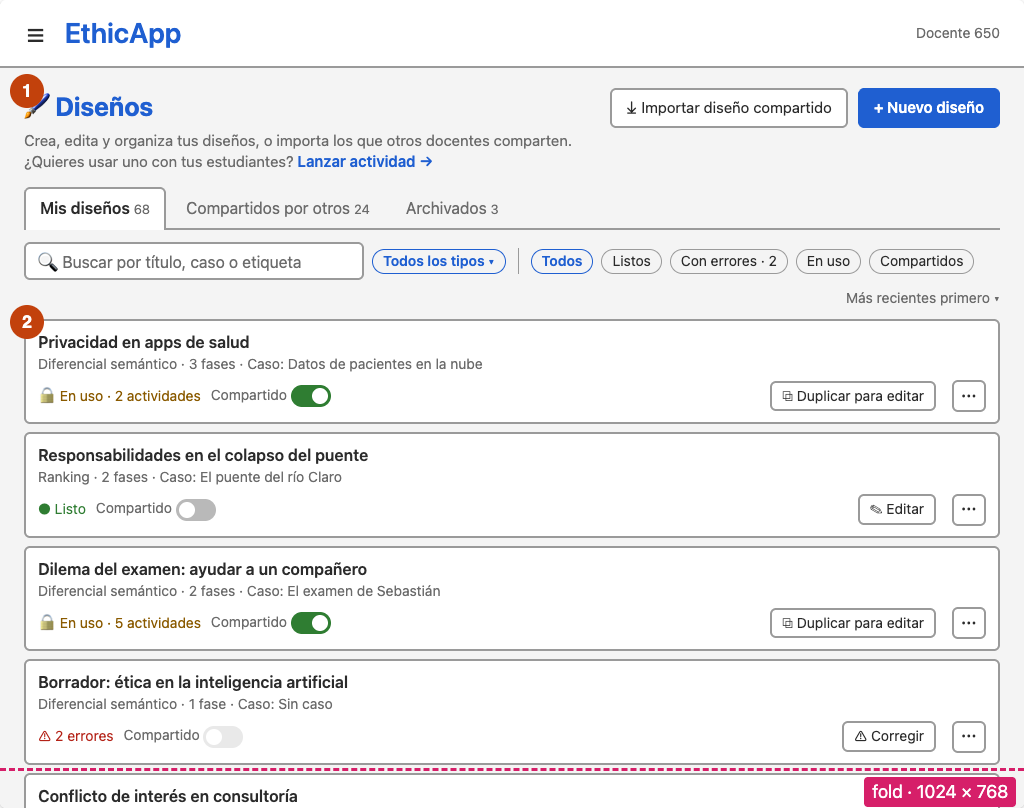
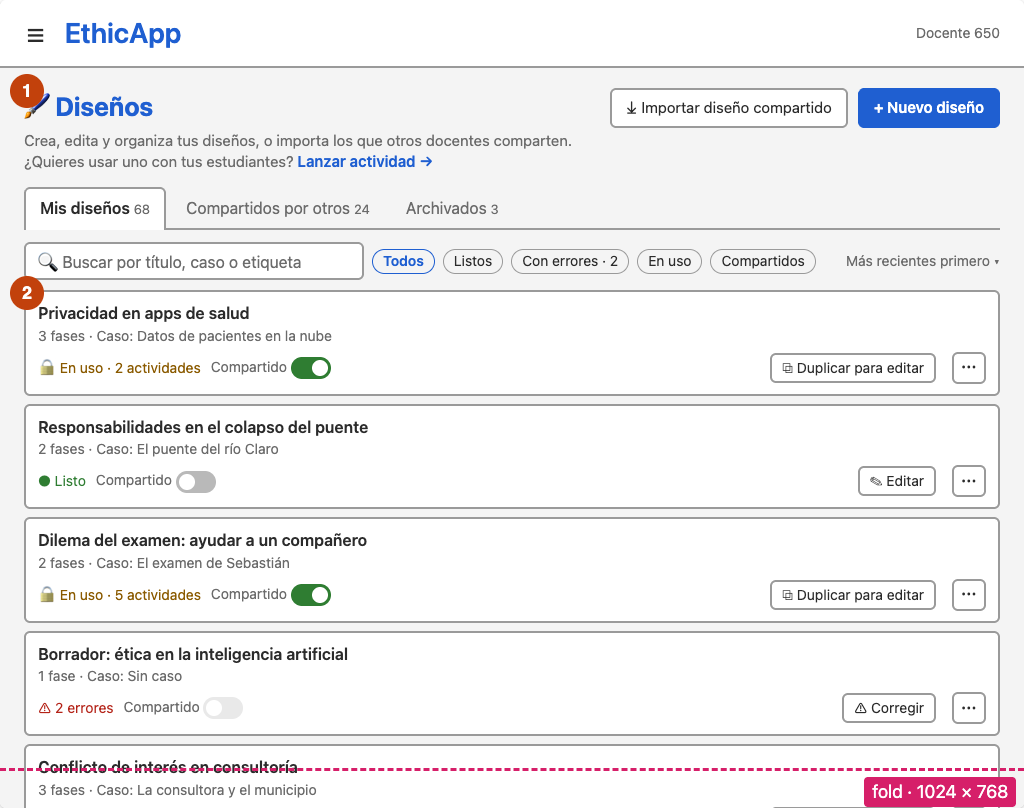
Drop the design type from the designs and launch proposals
A new canonical design schema will let one design mix item types, and
ranking will not be finished on the current schema, so the lists show no
type and have no type filter.

Changed region(s): [[0.0, 0.3403, 0.9688, 1.0], [0.4062, 0.3094, 0.9688, 0.4022], [0.75, 0.9901, 0.9062, 1.0]]

diff --git a/docs/design/designs-index/wireframes.html b/docs/design/designs-index/wireframes.html
@@ -183,7 +183,7 @@
     <li><b>The page says what it is for.</b> "Crea, edita y organiza tus diseños, o importa los que otros docentes comparten." and, next to it, the way out for the other task: "¿Quieres usar uno con tus estudiantes? Lanzar actividad →".</li>
     <li><b>Page actions:</b> "+ Nuevo diseño" (primary) and "Importar diseño compartido", which opens the "Compartidos por otros" tab.</li>
     <li><b>Tabs with counts:</b> "Mis diseños", "Compartidos por otros", "Archivados" (today "Tuyos", "De otros", "Archivadas"). The tab is part of the URL, so links can open one directly.</li>
-    <li><b>Filters for management, not for launching:</b> search over title, case and tags; type; status ("Listos", "Con errores", "En uso", "Compartidos"). The order is stated: "Más recientes primero".</li>
+    <li><b>Filters for management, not for launching:</b> search over title, case and tags; status ("Listos", "Con errores", "En uso", "Compartidos"). The order is stated: "Más recientes primero".</li>
     <li><b>One table row per design</b>, 12 on the first screen against one card today:
       <ul>
         <li><b>Diseño:</b> title, with the case and the number of phases under it. A click on the title opens the design's view, not the editor.</li>
@@ -200,7 +200,7 @@
   <ol class="notes">
     <li><b>The "Con errores" filter is on.</b> This is where the wizard's "3 diseños con errores no aparecen · Revisar en Diseños" lands (<code>#!/designs?status=errors</code>).</li>
     <li>Each row says how many errors it has and offers "Corregir", which opens the editor on the first error.</li>
-    <li>At this width the type moves under the title; the columns are Diseño, Estado, Compartido and the actions.</li>
+    <li>The columns are Diseño, Estado, Compartido and the actions, at this width as at 1920 px. Designs have no type column (see the README's decisions).</li>
   </ol>
 
   <h2>C. 1366 × 768: designs shared by others, after an import</h2>
@@ -208,7 +208,7 @@
   <div id="C"></div>
   <ol class="notes">
     <li><b>What the tab holds, in one line:</b> designs other teachers shared; importing one creates a private, editable copy in Mis diseños, and the original does not change.</li>
-    <li><b>Rows show what matters to decide an import:</b> author, case, license and type. The case is public, since a shared design needs a public case.</li>
+    <li><b>Rows show what matters to decide an import:</b> author, case and license. The case is public, since a shared design needs a public case.</li>
     <li><b>"Importar" is the row's only action.</b> A design already imported shows "Importado · Ver copia" instead, so it is not imported twice by mistake.</li>
     <li><b>A design that can no longer be imported</b> because its case stopped being public says so, with the button disabled.</li>
     <li><b>After importing,</b> a notice names the new copy and offers "Editar copia" and "Ver en Mis diseños". Today the notice says only "Diseño importado en tu colección" and stays for 100 seconds.</li>
@@ -233,42 +233,42 @@
 
 <script>
   const MINE = [
-    { t: "Privacidad en apps de salud", cs: "Datos de pacientes en la nube", type: "Diferencial semántico", ph: 3, st: "use", uses: 2, shared: true },
-    { t: "Responsabilidades en el colapso del puente", cs: "El puente del río Claro", type: "Ranking", ph: 2, st: "ok", shared: false },
-    { t: "Dilema del examen: ayudar a un compañero", cs: "El examen de Sebastián", type: "Diferencial semántico", ph: 2, st: "use", uses: 5, shared: true },
-    { t: "Borrador: ética en la inteligencia artificial", cs: "Sin caso", type: "Diferencial semántico", ph: 1, st: "err", errs: 2, shared: false },
-    { t: "Conflicto de interés en consultoría", cs: "La consultora y el municipio", type: "Diferencial semántico", ph: 3, st: "use", uses: 1, shared: false },
-    { t: "Seguridad frente a plazos en obra", cs: "Andamios en la torre B", type: "Diferencial semántico", ph: 2, st: "use", uses: 3, shared: false },
-    { t: "Denunciar una falla de software", cs: "El bug del sistema de frenos", type: "Diferencial semántico", ph: 2, st: "use", uses: 4, shared: true },
-    { t: "Accesibilidad en el diseño de software", cs: "El portal de trámites", type: "Diferencial semántico", ph: 2, st: "ok", shared: false },
-    { t: "Ranking de prioridades en emergencias", cs: "Sin caso", type: "Ranking", ph: 2, st: "err", errs: 1, shared: false },
-    { t: "IA generativa en la evaluación", cs: "El ensayo de Camila", type: "Diferencial semántico", ph: 3, st: "use", uses: 2, shared: false },
-    { t: "Datos abiertos municipales", cs: "Mapa de la delincuencia", type: "Ranking", ph: 2, st: "use", uses: 1, shared: false },
-    { t: "Propiedad intelectual en la tesis", cs: "El código del laboratorio", type: "Diferencial semántico", ph: 2, st: "use", uses: 2, shared: false },
-    { t: "Impacto ambiental de la planta", cs: "La planta de celulosa", type: "Ranking", ph: 3, st: "use", uses: 1, shared: true },
-    { t: "Sesgo en el algoritmo de admisión", cs: "Admisión automatizada", type: "Diferencial semántico", ph: 2, st: "use", uses: 3, shared: false },
-    { t: "Regalos de proveedores", cs: "La cena de fin de año", type: "Diferencial semántico", ph: 2, st: "use", uses: 6, shared: false },
-    { t: "Pruebas con animales", cs: "El laboratorio de toxicología", type: "Ranking", ph: 2, st: "use", uses: 1, shared: false },
-    { t: "Plagio en el informe final", cs: "Dos informes muy parecidos", type: "Diferencial semántico", ph: 2, st: "use", uses: 2, shared: false },
-    { t: "Ética del trabajo remoto", cs: "Monitoreo de pantallas", type: "Diferencial semántico", ph: 2, st: "ok", shared: false },
-    { t: "Huella de carbono del data center", cs: "El centro de datos del norte", type: "Ranking", ph: 2, st: "use", uses: 1, shared: false },
-    { t: "Consentimiento en estudios con usuarios", cs: "La encuesta de la app", type: "Diferencial semántico", ph: 3, st: "ok", shared: false },
-    { t: "Proveedores y trabajo infantil", cs: "La cadena de suministro", type: "Ranking", ph: 2, st: "use", uses: 2, shared: false },
-    { t: "Responsabilidad en accidentes de vehículos autónomos", cs: "El cruce de la avenida", type: "Diferencial semántico", ph: 3, st: "use", uses: 1, shared: false },
-    { t: "Transparencia en reportes financieros", cs: "El balance del trimestre", type: "Diferencial semántico", ph: 2, st: "ok", shared: false },
-    { t: "Conflictos en el equipo de proyecto", cs: "La entrega atrasada", type: "Diferencial semántico", ph: 2, st: "use", uses: 3, shared: false },
+    { t: "Privacidad en apps de salud", cs: "Datos de pacientes en la nube", ph: 3, st: "use", uses: 2, shared: true },
+    { t: "Responsabilidades en el colapso del puente", cs: "El puente del río Claro", ph: 2, st: "ok", shared: false },
+    { t: "Dilema del examen: ayudar a un compañero", cs: "El examen de Sebastián", ph: 2, st: "use", uses: 5, shared: true },
+    { t: "Borrador: ética en la inteligencia artificial", cs: "Sin caso", ph: 1, st: "err", errs: 2, shared: false },
+    { t: "Conflicto de interés en consultoría", cs: "La consultora y el municipio", ph: 3, st: "use", uses: 1, shared: false },
+    { t: "Seguridad frente a plazos en obra", cs: "Andamios en la torre B", ph: 2, st: "use", uses: 3, shared: false },
+    { t: "Denunciar una falla de software", cs: "El bug del sistema de frenos", ph: 2, st: "use", uses: 4, shared: true },
+    { t: "Accesibilidad en el diseño de software", cs: "El portal de trámites", ph: 2, st: "ok", shared: false },
+    { t: "Prioridades en emergencias", cs: "Sin caso", ph: 2, st: "err", errs: 1, shared: false },
+    { t: "IA generativa en la evaluación", cs: "El ensayo de Camila", ph: 3, st: "use", uses: 2, shared: false },
+    { t: "Datos abiertos municipales", cs: "Mapa de la delincuencia", ph: 2, st: "use", uses: 1, shared: false },
+    { t: "Propiedad intelectual en la tesis", cs: "El código del laboratorio", ph: 2, st: "use", uses: 2, shared: false },
+    { t: "Impacto ambiental de la planta", cs: "La planta de celulosa", ph: 3, st: "use", uses: 1, shared: true },
+    { t: "Sesgo en el algoritmo de admisión", cs: "Admisión automatizada", ph: 2, st: "use", uses: 3, shared: false },
+    { t: "Regalos de proveedores", cs: "La cena de fin de año", ph: 2, st: "use", uses: 6, shared: false },
+    { t: "Pruebas con animales", cs: "El laboratorio de toxicología", ph: 2, st: "use", uses: 1, shared: false },
+    { t: "Plagio en el informe final", cs: "Dos informes muy parecidos", ph: 2, st: "use", uses: 2, shared: false },
+    { t: "Ética del trabajo remoto", cs: "Monitoreo de pantallas", ph: 2, st: "ok", shared: false },
+    { t: "Huella de carbono del data center", cs: "El centro de datos del norte", ph: 2, st: "use", uses: 1, shared: false },
+    { t: "Consentimiento en estudios con usuarios", cs: "La encuesta de la app", ph: 3, st: "ok", shared: false },
+    { t: "Proveedores y trabajo infantil", cs: "La cadena de suministro", ph: 2, st: "use", uses: 2, shared: false },
+    { t: "Responsabilidad en accidentes de vehículos autónomos", cs: "El cruce de la avenida", ph: 3, st: "use", uses: 1, shared: false },
+    { t: "Transparencia en reportes financieros", cs: "El balance del trimestre", ph: 2, st: "ok", shared: false },
+    { t: "Conflictos en el equipo de proyecto", cs: "La entrega atrasada", ph: 2, st: "use", uses: 3, shared: false },
   ];
   const SHARED = [
-    { t: "Dilemas de privacidad en redes sociales", by: "Prof. Andrea Rojas", cs: "La foto viral", lic: "CC BY-SA 4.0", type: "Diferencial semántico", ph: 3, state: "new" },
-    { t: "Ingeniería y comunidades indígenas", by: "Prof. Tomás Pérez", cs: "La represa del valle", lic: "CC BY 4.0", type: "Ranking", ph: 2, state: "imported" },
-    { t: "Algoritmos de contratación", by: "Prof. Lucía Herrera", cs: "El filtro de currículums", lic: "CC BY-SA 4.0", type: "Diferencial semántico", ph: 2, state: "new" },
-    { t: "Seguridad informática y divulgación", by: "Prof. Diego Soto", cs: "La vulnerabilidad del banco", lic: "CC BY-NC 4.0", type: "Diferencial semántico", ph: 3, state: "new" },
-    { t: "Ética en la minería", by: "Prof. Carla Muñoz", cs: "El relave", lic: "CC BY-SA 4.0", type: "Ranking", ph: 2, state: "blocked" },
-    { t: "Deberes del ingeniero en obra pública", by: "Prof. Andrea Rojas", cs: "El paso nivel", lic: "CC BY-SA 4.0", type: "Diferencial semántico", ph: 2, state: "new" },
-    { t: "Telemedicina en zonas rurales", by: "Prof. Iván Castro", cs: "La consulta remota", lic: "CC BY 4.0", type: "Diferencial semántico", ph: 3, state: "new" },
-    { t: "Datos genéticos y seguros", by: "Prof. Lucía Herrera", cs: "El examen de ADN", lic: "CC BY-SA 4.0", type: "Diferencial semántico", ph: 2, state: "new" },
-    { t: "Obsolescencia programada", by: "Prof. Diego Soto", cs: "La impresora", lic: "CC BY-SA 4.0", type: "Ranking", ph: 2, state: "new" },
-    { t: "Drones y vigilancia", by: "Prof. Tomás Pérez", cs: "El barrio vigilado", lic: "CC BY 4.0", type: "Diferencial semántico", ph: 2, state: "new" },
+    { t: "Dilemas de privacidad en redes sociales", by: "Prof. Andrea Rojas", cs: "La foto viral", lic: "CC BY-SA 4.0", ph: 3, state: "new" },
+    { t: "Ingeniería y comunidades indígenas", by: "Prof. Tomás Pérez", cs: "La represa del valle", lic: "CC BY 4.0", ph: 2, state: "imported" },
+    { t: "Algoritmos de contratación", by: "Prof. Lucía Herrera", cs: "El filtro de currículums", lic: "CC BY-SA 4.0", ph: 2, state: "new" },
+    { t: "Seguridad informática y divulgación", by: "Prof. Diego Soto", cs: "La vulnerabilidad del banco", lic: "CC BY-NC 4.0", ph: 3, state: "new" },
+    { t: "Ética en la minería", by: "Prof. Carla Muñoz", cs: "El relave", lic: "CC BY-SA 4.0", ph: 2, state: "blocked" },
+    { t: "Deberes del ingeniero en obra pública", by: "Prof. Andrea Rojas", cs: "El paso nivel", lic: "CC BY-SA 4.0", ph: 2, state: "new" },
+    { t: "Telemedicina en zonas rurales", by: "Prof. Iván Castro", cs: "La consulta remota", lic: "CC BY 4.0", ph: 3, state: "new" },
+    { t: "Datos genéticos y seguros", by: "Prof. Lucía Herrera", cs: "El examen de ADN", lic: "CC BY-SA 4.0", ph: 2, state: "new" },
+    { t: "Obsolescencia programada", by: "Prof. Diego Soto", cs: "La impresora", lic: "CC BY-SA 4.0", ph: 2, state: "new" },
+    { t: "Drones y vigilancia", by: "Prof. Tomás Pérez", cs: "El barrio vigilado", lic: "CC BY 4.0", ph: 2, state: "new" },
   ];
 
   const status = (d) => d.st === "ok" ? '<span class="st ok">● Listo</span>'
@@ -280,20 +280,17 @@
     : '<span class="btn sm">⧉ Duplicar para editar</span>';
 
   function mineTable(rows, { narrow, menuRow }) {
-    const head = narrow
-      ? "<tr><th>Diseño</th><th>Estado</th><th>Compartido</th><th></th></tr>"
-      : "<tr><th>Diseño</th><th>Tipo</th><th>Estado</th><th>Compartido</th><th></th></tr>";
+    const head = "<tr><th>Diseño</th><th>Estado</th><th>Compartido</th><th></th></tr>";
     const body = rows.map((d, i) => {
-      const meta = narrow ? `${d.type} · ${d.ph} ${d.ph === 1 ? "fase" : "fases"} · Caso: ${d.cs}` : `${d.ph} ${d.ph === 1 ? "fase" : "fases"} · Caso: ${d.cs}`;
+      const meta = `${d.ph} ${d.ph === 1 ? "fase" : "fases"} · Caso: ${d.cs}`;
       return `<tr${i === menuRow ? ' class="hl"' : ""}><td class="t"><div class="title">${d.t}</div><div class="meta">${meta}</div></td>`
-        + (narrow ? "" : `<td class="sub">${d.type}</td>`)
         + `<td>${status(d)}</td><td>${share(d)}</td><td class="acts">${mainAction(d)}<span class="kebab"${i === menuRow ? ' data-menu="1"' : ""}>⋯</span></td></tr>`;
     }).join("");
     return `<table class="dt" data-role="designs"><thead>${head}</thead><tbody>${body}</tbody></table>`;
   }
 
   function mineList(rows) {
-    return `<div class="cards" data-role="designs">${rows.map((d) => `<div class="box card"><div class="row1"><span style="min-width:0"><div class="lbl">${d.t}</div><div class="sub">${d.type} · ${d.ph} ${d.ph === 1 ? "fase" : "fases"} · Caso: ${d.cs}</div></span></div>
+    return `<div class="cards" data-role="designs">${rows.map((d) => `<div class="box card"><div class="row1"><span style="min-width:0"><div class="lbl">${d.t}</div><div class="sub">${d.ph} ${d.ph === 1 ? "fase" : "fases"} · Caso: ${d.cs}</div></span></div>
       <div class="row2">${status(d)}<span class="sub">Compartido ${share(d)}</span><span style="flex:1"></span>${mainAction(d)}<span class="kebab">⋯</span></div></div>`).join("")}</div>`;
   }
 
@@ -301,7 +298,7 @@
     const act = (d) => d.state === "imported" ? '<span class="st ok">✓ Importado</span> <span class="btn sm ghost">Ver copia</span>'
       : d.state === "blocked" ? '<span class="btn sm disabled">Importar</span><div class="sub" style="font-size:12px">Su caso dejó de ser público</div>'
       : '<span class="btn sm">⤓ Importar</span>';
-    const body = SHARED.map((d) => `<tr><td class="t"><div class="title">${d.t}</div><div class="meta">${d.type} · ${d.ph} ${d.ph === 1 ? "fase" : "fases"} · Caso: ${d.cs}</div></td>
+    const body = SHARED.map((d) => `<tr><td class="t"><div class="title">${d.t}</div><div class="meta">${d.ph} ${d.ph === 1 ? "fase" : "fases"} · Caso: ${d.cs}</div></td>
       <td class="sub">${d.by}</td><td class="sub">${d.lic}</td><td class="acts" style="text-align:right">${act(d)}</td></tr>`).join("");
     return `<table class="dt" data-role="designs"><thead><tr><th>Diseño</th><th>Autor</th><th>Licencia</th><th></th></tr></thead><tbody>${body}</tbody></table>`;
   }
@@ -316,12 +313,11 @@
     if (tab === "shared") {
       return head + tabs
         + '<div class="banner lib">Diseños que otros docentes compartieron. Al importar uno se crea una <b>copia privada y editable</b> en Mis diseños; el original no cambia.</div>'
-        + '<div class="tools"><span class="search">🔍 Buscar por título, autor, caso o etiqueta</span><span class="chip on">Todos</span><span class="chip">Diferencial semántico</span><span class="chip">Ranking</span><span class="sub sort">Más recientes primero ▾</span></div>'
+        + '<div class="tools"><span class="search">🔍 Buscar por título, autor, caso o etiqueta</span><span class="sub sort">Más recientes primero ▾</span></div>'
         + sharedTable();
     }
     const st = (k, label) => `<span class="chip${filter === k ? " on" : ""}" data-k="${k}">${label}</span>`;
     const tools = `<div class="tools"><span class="search">🔍 Buscar por título, caso o etiqueta</span>
-      <span class="chip on">Todos los tipos ▾</span><span class="sep"></span>
       ${st("all", "Todos")}${st("ok", "Listos")}${st("errors", "Con errores · 2")}${st("use", "En uso")}${st("shared", "Compartidos")}
       <span class="sub sort">Más recientes primero ▾</span></div>`;
     const list = filter === "errors" ? MINE.filter((d) => d.st === "err") : MINE.slice(0, rows);

diff --git a/docs/design/launch-activity-wizard/wireframes.html b/docs/design/launch-activity-wizard/wireframes.html
@@ -201,14 +201,14 @@
   <div id="A"></div>
   <ol class="notes">
     <li><b>Stepper.</b> Two steps, always visible: "Elegir diseño" and "Identificar y lanzar". The current step is marked, and a completed step shows a check and can be clicked to go back. It is a <code>nav</code> with <code>aria-current="step"</code>.</li>
-    <li><b>Find a design.</b> The search filters as the teacher types, over title, case and tags, with no typeahead popup. The type chips narrow the list.
+    <li><b>Find a design.</b> The search filters as the teacher types, over title, case and tags, with no typeahead popup.
       <ul>
         <li><b>The list says its order</b>: "Por último lanzamiento". The most recently launched designs come first.</li>
         <li><b>A design never launched</b> is placed by its creation date. A design created yesterday sits above one last launched a month ago, so a design just written for this class is at the top.</li>
       </ul></li>
     <li><b>One line per design</b>, instead of a 353 px card.
       <ul>
-        <li>It shows a radio button, the title, the type, the number of phases and the case.</li>
+        <li>It shows a radio button, the title, the number of phases and the case.</li>
         <li><b>"✦ IA"</b> marks a design that uses AI services in any phase. It comes from the design itself, so the list needs no catalog of services.</li>
         <li>On the right, when the design was last launched, or created if it never was.</li>
         <li>The whole row selects; there are no other buttons.</li>
@@ -217,7 +217,7 @@
     <li><b>Designs that cannot be launched are explained, not silently hidden.</b> Designs with errors are not listed, and the footer says how many and links to Diseños. Archived designs are not listed either.</li>
     <li><b>Preview of the selected design</b>, so the teacher can check it without leaving the page.
       <ul>
-        <li>It shows the type, the case, each phase with its mode and questions, and when the design was created and last launched.</li>
+        <li>It shows the case, each phase with its mode and questions, and when the design was created and last launched.</li>
         <li><b>It names the AI service of each phase</b> with the service's own texts, as the design editor and the dashboard do.</li>
         <li>"Ver diseño completo" opens the design in a new tab, so the wizard keeps its state.</li>
       </ul></li>
@@ -228,8 +228,8 @@
   <p class="metrics" data-metrics="B"></p>
   <div id="B"></div>
   <ol class="notes">
-    <li>Same structure, with a 380 px preview. When the type and the phases do not fit on a row's second line, the row drops them; the preview still shows them.</li>
-    <li>6 designs fit on the first screen. Today not one full card does.</li>
+    <li>Same structure, with a 380 px preview. When the phases do not fit on a row's second line, the row drops them; the preview still shows them.</li>
+    <li>7 designs fit on the first screen. Today not one full card does.</li>
   </ol>
 
   <h2>C. 1366 × 768: step 2, identify and launch</h2>
@@ -281,22 +281,22 @@
 
 <script>
   const DESIGNS = [
-    { t: "Privacidad en apps de salud", type: "Diferencial semántico", phases: 3, cs: "Datos de pacientes en la nube", ai: true, when: "Lanzado 2 veces · 28 oct." },
-    { t: "Responsabilidades en el colapso del puente", type: "Ranking", phases: 2, cs: "El puente del río Claro", ai: false, when: "Creado 25 oct. · nunca lanzado" },
-    { t: "Dilema del examen: ayudar a un compañero", type: "Diferencial semántico", phases: 2, cs: "El examen de Sebastián", ai: true, when: "Lanzado 5 veces · 21 oct." },
-    { t: "Conflicto de interés en consultoría", type: "Diferencial semántico", phases: 3, cs: "La consultora y el municipio", ai: true, when: "Lanzado 1 vez · 2 sep." },
-    { t: "Seguridad frente a plazos en obra", type: "Diferencial semántico", phases: 2, cs: "Andamios en la torre B", ai: true, when: "Lanzado 3 veces · 18 ago." },
-    { t: "Denunciar una falla de software", type: "Diferencial semántico", phases: 2, cs: "El bug del sistema de frenos", ai: false, when: "Lanzado 4 veces · 30 jul." },
-    { t: "IA generativa en la evaluación", type: "Diferencial semántico", phases: 3, cs: "El ensayo de Camila", ai: true, when: "Lanzado 2 veces · 9 jul." },
-    { t: "Datos abiertos municipales", type: "Ranking", phases: 2, cs: "Mapa de la delincuencia", ai: false, when: "Lanzado 1 vez · 12 jun." },
-    { t: "Accesibilidad en el diseño de software", type: "Diferencial semántico", phases: 2, cs: "El portal de trámites", ai: true, when: "Creado 3 jun. · nunca lanzado" },
-    { t: "Propiedad intelectual en la tesis", type: "Diferencial semántico", phases: 2, cs: "El código del laboratorio", ai: false, when: "Lanzado 2 veces · 20 may." },
-    { t: "Impacto ambiental de la planta", type: "Ranking", phases: 3, cs: "La planta de celulosa", ai: true, when: "Lanzado 1 vez · 8 may." },
-    { t: "Sesgo en el algoritmo de admisión", type: "Diferencial semántico", phases: 2, cs: "Admisión automatizada", ai: true, when: "Lanzado 3 veces · 14 abr." },
-    { t: "Regalos de proveedores", type: "Diferencial semántico", phases: 2, cs: "La cena de fin de año", ai: false, when: "Lanzado 6 veces · 2 abr." },
-    { t: "Pruebas con animales", type: "Ranking", phases: 2, cs: "El laboratorio de toxicología", ai: false, when: "Lanzado 1 vez · 3 mar." },
-    { t: "Plagio en el informe final", type: "Diferencial semántico", phases: 2, cs: "Dos informes muy parecidos", ai: true, when: "Lanzado 2 veces · 27 feb." },
-    { t: "Ética del trabajo remoto", type: "Diferencial semántico", phases: 2, cs: "Monitoreo de pantallas", ai: false, when: "Creado 1 feb. · nunca lanzado" },
+    { t: "Privacidad en apps de salud", phases: 3, cs: "Datos de pacientes en la nube", ai: true, when: "Lanzado 2 veces · 28 oct." },
+    { t: "Responsabilidades en el colapso del puente", phases: 2, cs: "El puente del río Claro", ai: false, when: "Creado 25 oct. · nunca lanzado" },
+    { t: "Dilema del examen: ayudar a un compañero", phases: 2, cs: "El examen de Sebastián", ai: true, when: "Lanzado 5 veces · 21 oct." },
+    { t: "Conflicto de interés en consultoría", phases: 3, cs: "La consultora y el municipio", ai: true, when: "Lanzado 1 vez · 2 sep." },
+    { t: "Seguridad frente a plazos en obra", phases: 2, cs: "Andamios en la torre B", ai: true, when: "Lanzado 3 veces · 18 ago." },
+    { t: "Denunciar una falla de software", phases: 2, cs: "El bug del sistema de frenos", ai: false, when: "Lanzado 4 veces · 30 jul." },
+    { t: "IA generativa en la evaluación", phases: 3, cs: "El ensayo de Camila", ai: true, when: "Lanzado 2 veces · 9 jul." },
+    { t: "Datos abiertos municipales", phases: 2, cs: "Mapa de la delincuencia", ai: false, when: "Lanzado 1 vez · 12 jun." },
+    { t: "Accesibilidad en el diseño de software", phases: 2, cs: "El portal de trámites", ai: true, when: "Creado 3 jun. · nunca lanzado" },
+    { t: "Propiedad intelectual en la tesis", phases: 2, cs: "El código del laboratorio", ai: false, when: "Lanzado 2 veces · 20 may." },
+    { t: "Impacto ambiental de la planta", phases: 3, cs: "La planta de celulosa", ai: true, when: "Lanzado 1 vez · 8 may." },
+    { t: "Sesgo en el algoritmo de admisión", phases: 2, cs: "Admisión automatizada", ai: true, when: "Lanzado 3 veces · 14 abr." },
+    { t: "Regalos de proveedores", phases: 2, cs: "La cena de fin de año", ai: false, when: "Lanzado 6 veces · 2 abr." },
+    { t: "Pruebas con animales", phases: 2, cs: "El laboratorio de toxicología", ai: false, when: "Lanzado 1 vez · 3 mar." },
+    { t: "Plagio en el informe final", phases: 2, cs: "Dos informes muy parecidos", ai: true, when: "Lanzado 2 veces · 27 feb." },
+    { t: "Ética del trabajo remoto", phases: 2, cs: "Monitoreo de pantallas", ai: false, when: "Creado 1 feb. · nunca lanzado" },
   ];
   const SELECTED = 0;
   const DESCRIPTION = "Ética Profesional · Sección 3 · 2026-2";
@@ -321,7 +321,7 @@
 
   function row(d, i, { narrow, inline }) {
     const sel = i === SELECTED;
-    const meta = narrow ? `Caso: ${d.cs}` : `${d.type} · ${d.phases} fases · Caso: ${d.cs}`;
+    const meta = narrow ? `Caso: ${d.cs}` : `${d.phases} fases · Caso: ${d.cs}`;
     const ai = d.ai ? '<span class="chip ai">✦ IA</span>' : "";
     const extra = sel && inline
       ? `<div class="inline">${phaseRows()}
@@ -340,14 +340,13 @@
         <div class="listfoot"><span>Mostrando ${rows} de 24 · <span style="color:var(--accent)">Mostrar más</span></span><span>3 diseños con errores no aparecen · <span style="color:var(--accent)">Revisar en Diseños</span></span></div>
       </div>`;
     const tools = `<div class="tools"><span class="search">🔍 Buscar por título, caso o etiqueta</span>
-        <span class="chip on">Todos</span><span class="chip">Diferencial semántico</span><span class="chip">Ranking</span>
         <span class="sub sort">Por último lanzamiento · 24 diseños</span></div>`;
     if (one) return tools + list;
     const d = DESIGNS[SELECTED];
     const preview = `<div class="box preview">
         <div class="sub">Vista previa</div>
         <h4>${d.t}</h4>
-        <div class="kv"><span class="chip">${d.type}</span><span class="chip">${d.phases} fases</span><span class="chip ai">✦ IA</span></div>
+        <div class="kv"><span class="chip">${d.phases} fases</span><span class="chip ai">✦ IA</span></div>
         <div class="case"><span>📖 Caso: <b>${d.cs}</b></span><span style="color:var(--accent)">Ver caso ↗</span></div>
         ${phaseRows()}
         <div class="sub" style="margin:10px 0 12px">Creado el 12 sep. · ${d.when}</div>
@@ -378,7 +377,7 @@
     const one = layout === "one";
     const d = DESIGNS[SELECTED];
     const chosen = `<div class="box card chosen"><span style="min-width:0"><div class="sub">Diseño elegido</div>
-        <div class="lbl" style="font-size:17px">${d.t}</div><div class="sub">${d.type} · ${d.phases} fases · Caso: ${d.cs}</div></span>
+        <div class="lbl" style="font-size:17px">${d.t}</div><div class="sub">${d.phases} fases · Caso: ${d.cs}</div></span>
         <span class="btn link">← Cambiar diseño</span></div>`;
     const desc = `<div class="box card desc">
         <div class="field-label">Descripción de la actividad <span class="req">*</span></div>

diff --git a/docs/design/launch-activity-wizard/README.md b/docs/design/launch-activity-wizard/README.md
@@ -66,7 +66,6 @@ The page was measured with headless Chrome. The numbers are the same at 1920, 13
 
 **Finding a design**
 - The search filters the list as the teacher types, over title, case and tags. It has no typeahead popup.
-- Type chips (Todos, Diferencial semántico, Ranking) narrow the list.
 
 **Order**
 - The list is ordered by last launch, most recent first, and says so: "Por último lanzamiento · 24 diseños".
@@ -74,12 +73,12 @@ The page was measured with headless Chrome. The numbers are the same at 1920, 13
 
 **One row per design**
 - Each row shows:
-  - a radio button, the title, and the type, number of phases and case;
+  - a radio button, the title, and the number of phases and case;
   - "✦ IA" when any of the design's phases enables an AI service;
   - when it was last launched ("Lanzado 2 veces · 28 oct.") or, if never, created ("Creado 25 oct. · nunca lanzado").
 - The whole row selects the design, and it has no other buttons. Double-clicking a row moves on to step 2.
 - The list shows the first 20 rows, then "Mostrar más". There are no pages.
-- 11 rows fit on the first screen at 1920 × 1080, 6 at 1366 × 768, and 3 at 1024 × 768 with the selected row expanded.
+- 11 rows fit on the first screen at 1920 × 1080, 7 at 1366 × 768, and 3 at 1024 × 768 with the selected row expanded.
 
 **Designs that cannot be launched**
 - Designs with errors and archived designs are not listed.
@@ -88,7 +87,7 @@ The page was measured with headless Chrome. The numbers are the same at 1920, 13
 **Preview of the selected design**
 - From 1200 px, the preview is a 460 px panel (380 px at 1366) next to the list. Below 1200 px, the selected row expands in place.
 - It shows:
-  - the type and number of phases;
+  - the number of phases;
   - the case, with "Ver caso ↗";
   - each phase with its mode, group size, chat, number of questions and AI service;
   - when the design was created and last launched;
@@ -161,7 +160,7 @@ Older activities without a description keep showing the name alone.
 | Today | Proposal |
 | --- | --- |
 | Title, "Volver", "Indicaciones" (two bullet points) | Title and stepper; "Volver" becomes "Cancelar" in the action bar |
-| Step 1 panel: typeahead search, 353 px `design-item` cards, 5 per page | Live search, type chips, one row per design, "Mostrar más" |
+| Step 1 panel: typeahead search, 353 px `design-item` cards, 5 per page | Live search, one row per design, "Mostrar más" |
 | "Ver" button (leaves the page) | Inline preview; "Ver diseño completo ↗" in a new tab |
 | Validity and lock lines on every card | Only launchable designs are listed; the footer counts the ones with errors |
 | Visibility and license lines | Dropped from this page; they stay in Diseños |
@@ -235,6 +234,7 @@ Older activities without a description keep showing the name alone.
 - **2026-11-01: one switch turns off the AI services for the whole activity.**
 - **2026-11-01: step 2 checks whether the design's AI services can run before offering the switch.** If they cannot, it shows the "services not available" notice instead, before the launch.
 - **2026-11-01: the list only marks that a design uses AI ("✦ IA").** Enumerating services as chips would need the list to cross the service catalog with every design, for little gain. The preview names the service of each phase.
+- **2026-11-01: designs are not told apart by type.** The lists show no type and have no type filter. A new canonical design schema will let one design mix item types, and new ones are coming (open response, multiple choice), so a per-design type is going away. Ranking will not be finished on the current schema and teacher frontend, so every design is treated as a semantic differential design.
 
 ## Out of scope
 

diff --git a/docs/design/designs-index/README.md b/docs/design/designs-index/README.md
@@ -80,13 +80,12 @@ The page was measured with headless Chrome. The numbers are the same at 1920 and
 
 **Filters**
 - The search covers title, case and tags.
-- The type filter is a menu.
+- There is no type filter (see Decisions).
 - The status chips are "Todos", "Listos", "Con errores · n", "En uso" and "Compartidos".
 - The order is stated: "Más recientes primero".
 
 **One row per design**
 - **Diseño:** the title, with the number of phases and the case under it. The title opens the design's view, not the editor: the row's visible action is the way to edit.
-- **Tipo:** a column of its own from 1200 px; at 1366 px it moves under the title.
 - **Estado:** one of
   - "● Listo": it can be launched and edited;
   - "⚠ n errores": it cannot be launched yet;
@@ -117,7 +116,7 @@ The page was measured with headless Chrome. The numbers are the same at 1920 and
 ### Compartidos por otros (frame C)
 
 - **A one-line banner explains the tab:** "Diseños que otros docentes compartieron. Al importar uno se crea una copia privada y editable en Mis diseños; el original no cambia."
-- **Columns:** design (type, phases, case), author and license.
+- **Columns:** design (phases, case), author and license.
 - **"⤓ Importar" is the row's only action.**
   - A design the teacher already imported shows "✓ Importado · Ver copia" instead, so it is not imported twice by mistake.
   - A design whose case stopped being public cannot be imported. It says so, with the button disabled, instead of failing after the click.
@@ -159,6 +158,7 @@ Each notice disappears after a few seconds and can be dismissed.
 | Tabs "Tuyos", "De otros", "Archivadas" | "Mis diseños", "Compartidos por otros", "Archivados", with counts |
 | 376 px `design-item` card, 5 per page | Table row, "Mostrar más" |
 | Validity and lock sentences | The Estado column |
+| Type, on the card and as a filter | Removed (see Decisions) |
 | Visibility line and the "Compartir Diseño" On/Off switch | The Compartido column's switch |
 | License line | The Licencia column of "Compartidos por otros"; in Mis diseños, in the design's view |
 | "Lanzar Actividad" as the first button | Removed; the role line links to Lanzar actividad |
@@ -196,6 +196,7 @@ Each notice disappears after a few seconds and can be dismissed.
 
 ## Decisions
 
+- **2026-11-01: designs are not told apart by type.** The lists show no type and have no type filter. A new canonical design schema will let one design mix item types, and new ones are coming (open response, multiple choice), so a per-design type is going away. Ranking will not be finished on the current schema and teacher frontend, so every design is treated as a semantic differential design.
 - **2026-11-01: Diseños has no launch action.** The row menu's "Lanzar actividad con este diseño" is removed, so Diseños only manages and Lanzar actividad only launches. The role line still links to Lanzar actividad.
 - **2026-11-01: the tab of others' designs is "Compartidos por otros".** "Biblioteca compartida" could be read as the teacher's own shared designs.
 - **2026-11-01: a click on a row's title opens the design's view,** not the editor.
